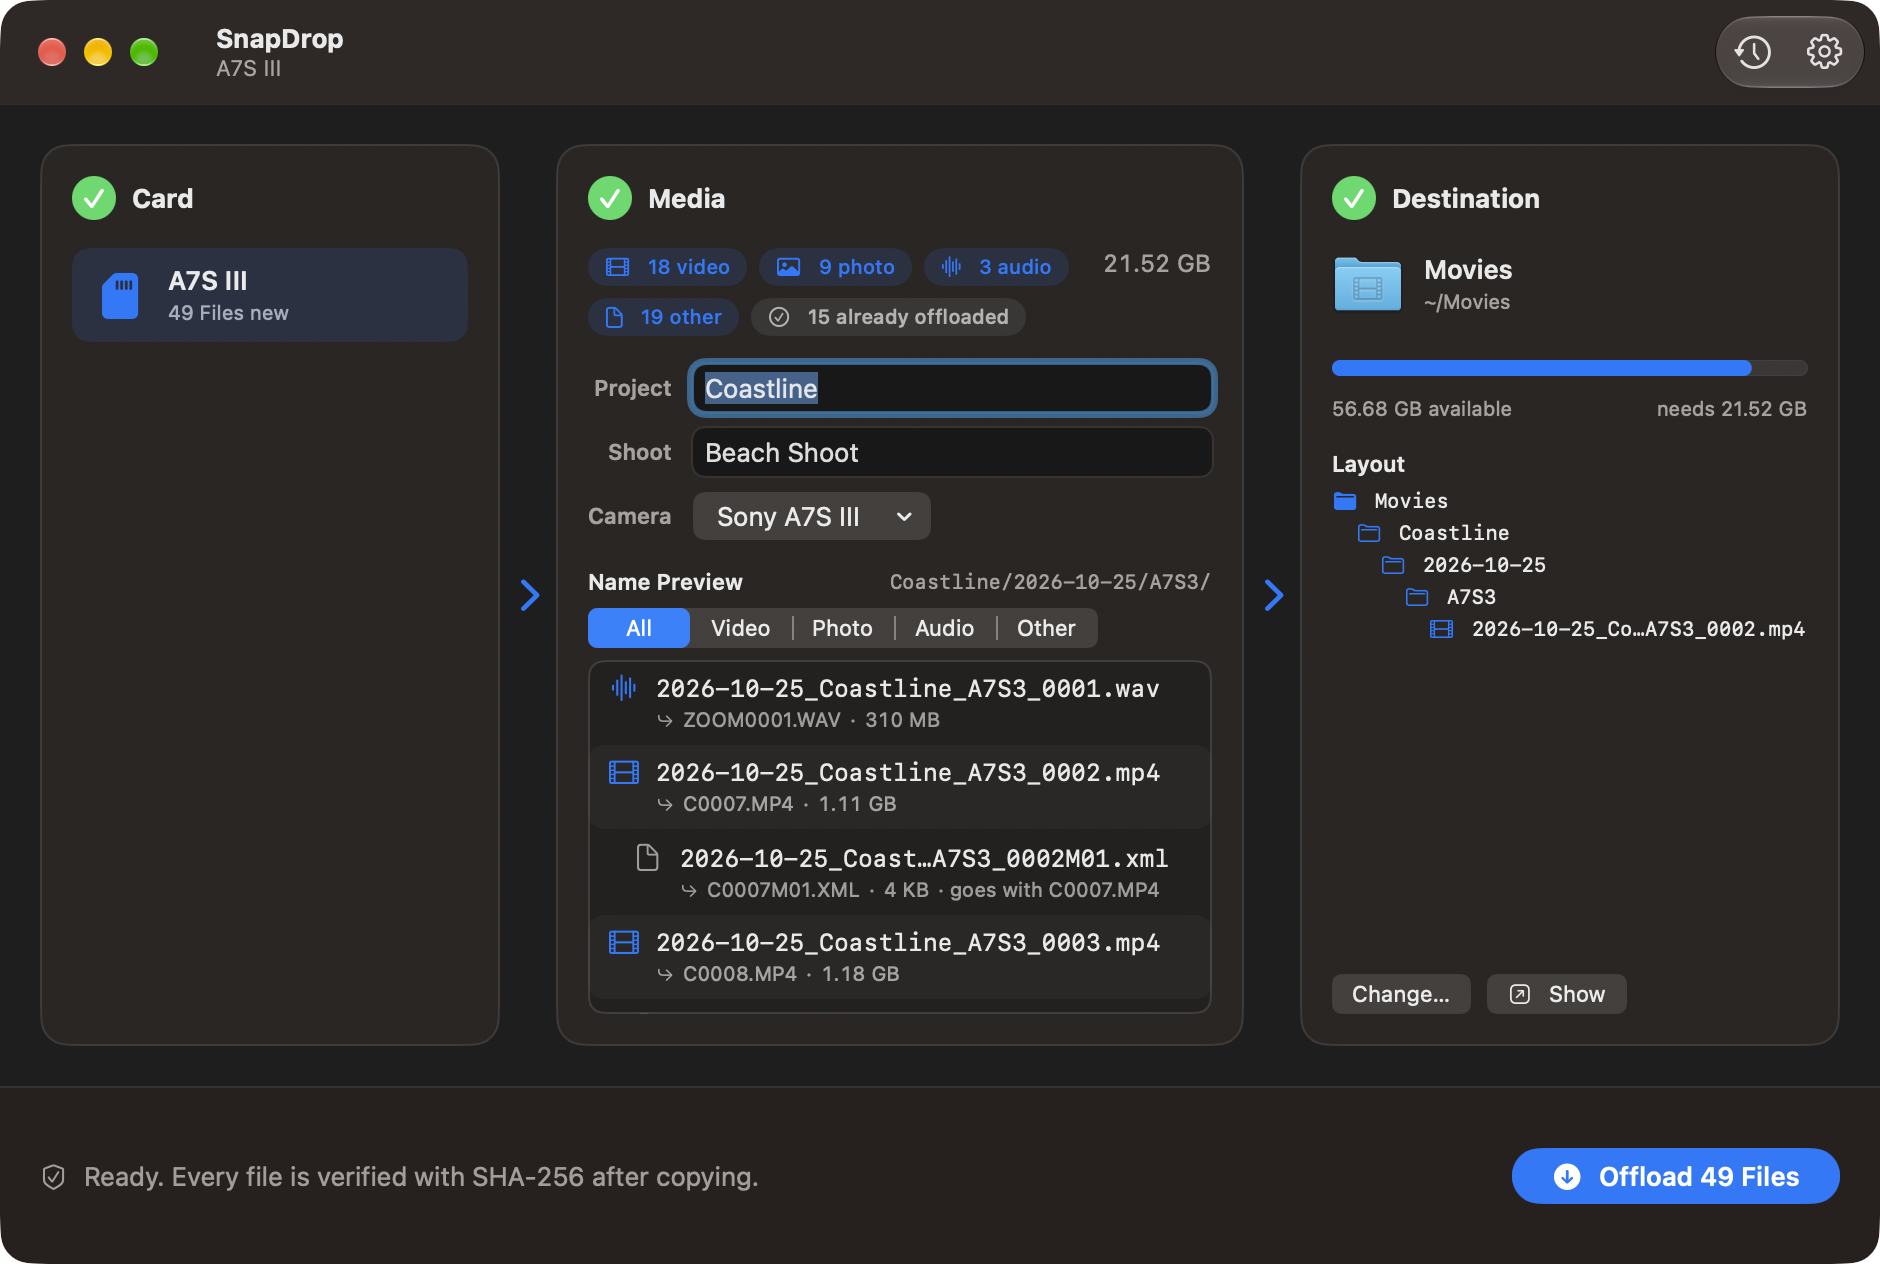
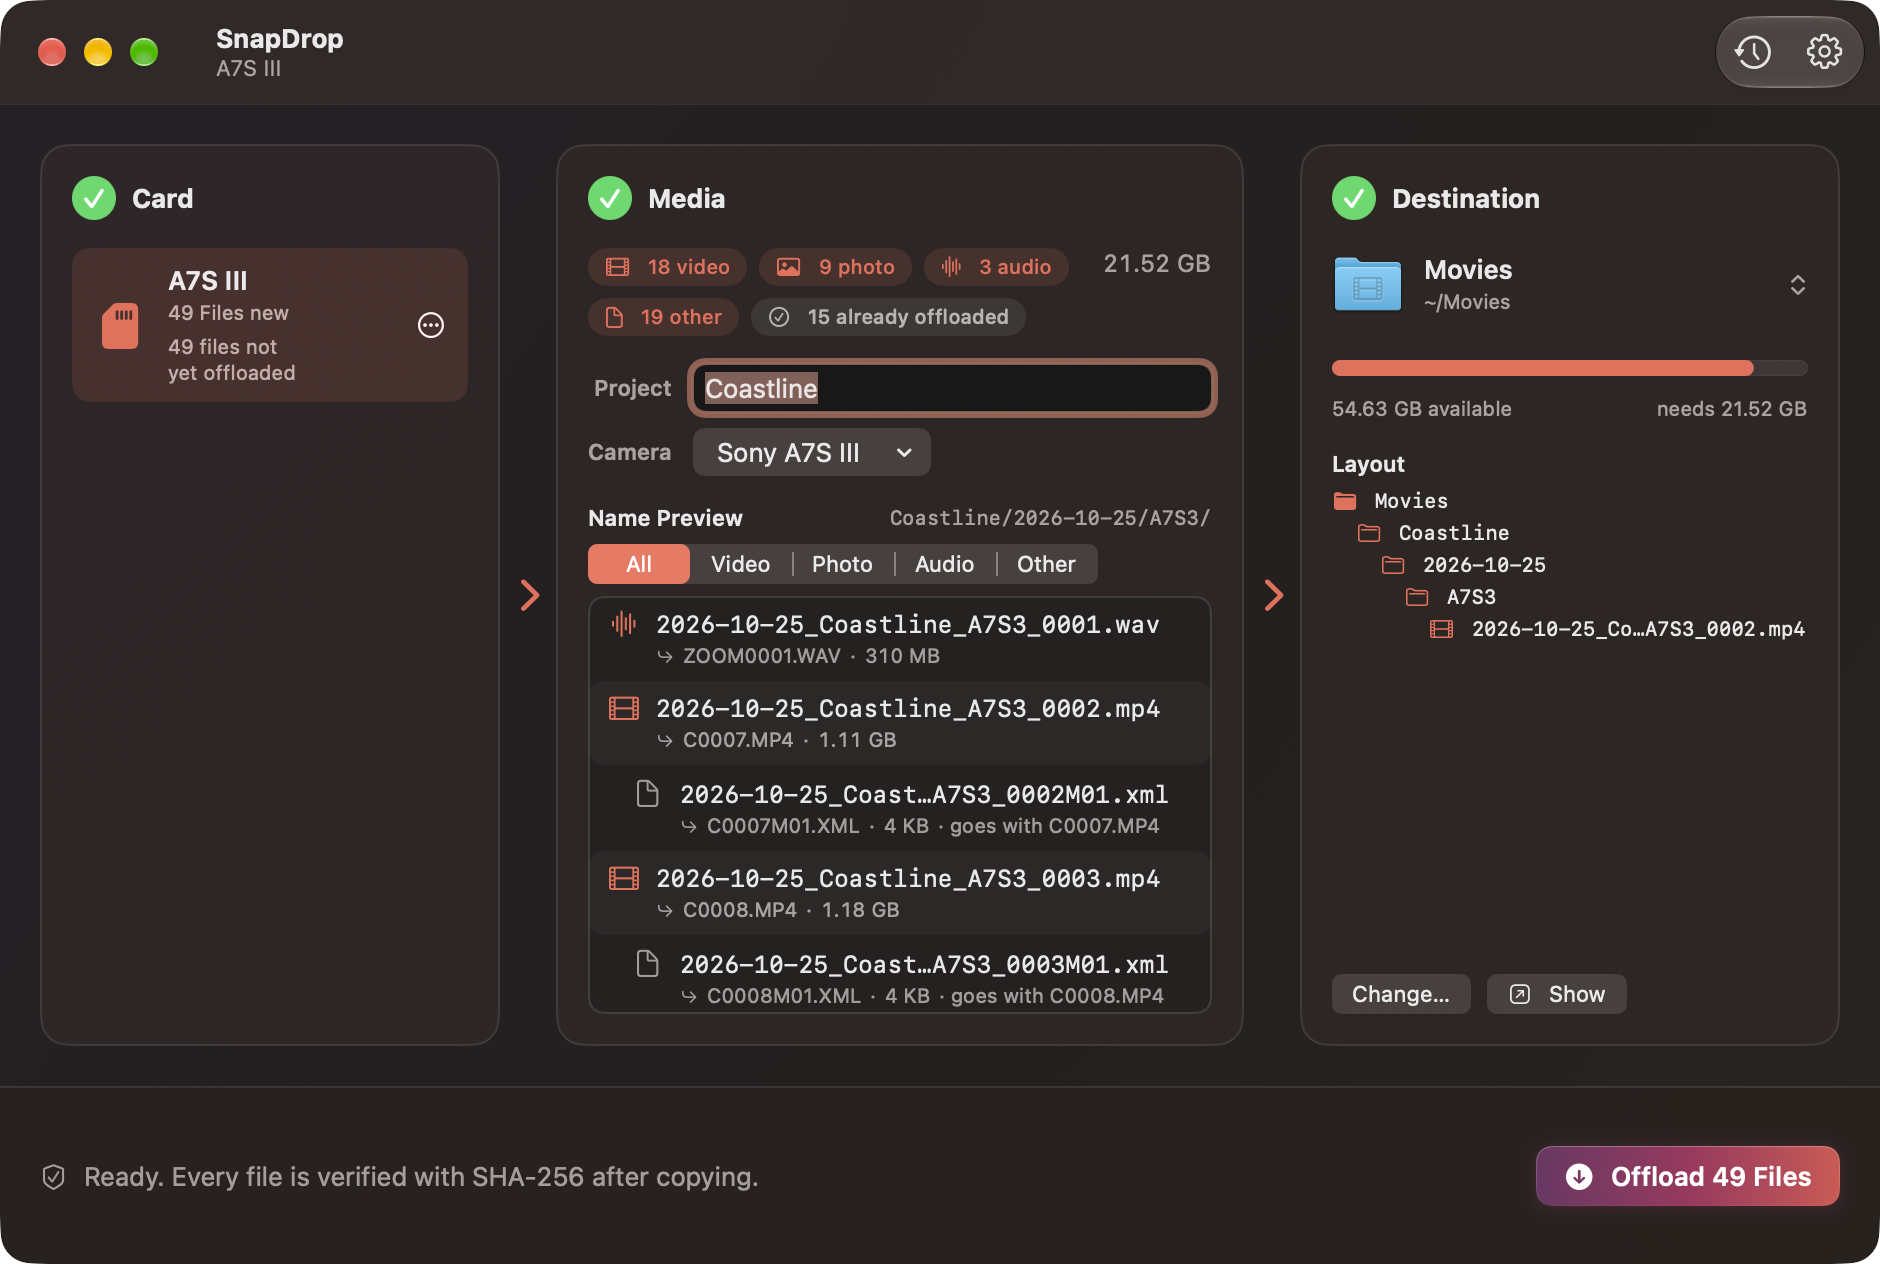
Update README and screenshots for project naming, formatting, favorites and the new theme

diff --git a/README.md b/README.md
@@ -14,8 +14,9 @@ and sidecar files — safely, verified, and named the way you want.
    System junk is never copied.
 3. **Names files from a template** you set in Settings → Naming, e.g.
    `{project}/{date}/{camera}` + `{date}_{project}_{camera}_{seq}`. You fill in the
-   project, shoot and camera in the main window; a live preview shows exactly what every
-   file will be called before anything is copied, and the copy uses exactly those names.
+   project (the shoot or job name, e.g. "Beach Shoot") and camera in the main window; a
+   live preview shows exactly what every file will be called before anything is copied,
+   and the copy uses exactly those names.
 4. **Copies only new files**, with the default layout:
 
    ```
@@ -40,7 +41,8 @@ and sidecar files — safely, verified, and named the way you want.
    again only copies files that are new. A file is identified by the card's volume UUID
    (or name) + its path on the card + size + modification time.
 
-SnapDrop **never changes or deletes anything on the card.**
+SnapDrop **never changes or deletes anything on the card** — unless you explicitly ask it
+to [format a card](#formatting-a-card) whose files have all been copied and verified.
 
 ## The window
 
@@ -48,30 +50,88 @@ The main window reads left to right, like a funnel:
 
 **① Card → ② Media → ③ Destination**, with the offload bar along the bottom.
 
-- **Card** — the inserted cards. Pick one if more than one is mounted.
+- **Card** — the inserted cards. Pick one if more than one is mounted. A card whose files
+  are all safely offloaded gets a green **Ready to format** badge; the **…** button (or a
+  right-click) has **Format Card…** and **Eject Card**.
 - **Media** — chips like *18 video · 9 photo · 3 audio · 19 other* and how many files
-  were already offloaded; the **Project**, **Shoot** and **Camera** fields (only the ones
-  your template uses are required); and the live name preview, with an
+  were already offloaded; the **Project** and **Camera** fields (only the ones your
+  template uses are required); and the live name preview, with an
   *All / Video / Photo / Audio / Other* filter. Sidecars are shown indented under their clip.
-- **Destination** — the folder, its free space, and the folder layout files will land in.
+  A card with no media on it says *Card Is Empty*.
+- **Destination** — the folder and its free space. Click the folder to switch between
+  your [favorite destinations](#favorite-destinations). Once a card is scanned it also
+  shows how much space the offload needs and the folder layout files will land in.
 - **Offload bar** — the big **Offload N Files** button. When it's disabled it tells you
   why ("Enter a project name", "Choose a camera", "Not enough space…"). While copying it
   shows the current file, *X of N*, bytes copied, time left and a *Verifying* state, plus
   **Cancel**; the preview highlights the file being copied and ticks off each verified
-  one. When it's done: **Show in Finder**, **Eject Card** and **Done**, and a "Glass"
-  sound plays if everything copied and verified.
+  one. When it's done: **Show in Finder**, **Format Card…** (when the card is ready to
+  format), **Eject Card** and **Done**, and a "Glass" sound plays if everything copied
+  and verified.
 
 When you insert a card SnapDrop fills in the funnel and brings its window to the front —
 no pop-up sheet. The clock button in the toolbar shows **Recent Offloads**.
 Animations follow System Settings → Accessibility → Display → **Reduce motion**.
 
+The colours come from the Comet A app icon — plum, magenta, coral and a warm orange — as a
+very soft wash behind the window, the gradient **Offload** button, the progress bar, the
+glowing border of the step that needs you, the dots flowing between steps while copying
+and the glow when an offload completes. With **Increase contrast** or **Reduce
+transparency** turned on, SnapDrop uses solid colours instead of gradients. The palette
+lives in one place, `Theme.swift`; the app's accent colour (`AccentColor` in the asset
+catalog) is magenta in Light Mode and coral in Dark Mode.
+
 | Ready | Copying | Finished (Dark Mode) |
 | --- | --- | --- |
 | ![](Design/screenshots/ready-light.png) | ![](Design/screenshots/running-light.png) | ![](Design/screenshots/finished-dark.png) |
 
+| No card | Ready (Dark Mode) |
+| --- | --- |
+| ![](Design/screenshots/empty-light.png) | ![](Design/screenshots/ready-dark.png) |
+
+## Formatting a card
+
+When every file on a card has been copied and verified, the card shows a green
+**Ready to format** badge (otherwise it says how many files aren't offloaded yet).
+"Offloaded" means the ledger has the file *and* its copy is still in the destination with
+the right size — if you've moved or deleted copies, the card isn't ready.
+
+**Format Card…** (in the card's **…** menu, its right-click menu, or after an offload)
+asks first, with **Cancel** as the default button:
+
+![The Format confirmation](Design/screenshots/format-confirm.png)
+
+Formatting keeps the card's file system (exFAT, FAT32 or FAT16) and its name, using
+`diskutil eraseVolume`. Before erasing, SnapDrop checks again that the card is still ready
+and refuses unless the volume:
+
+- is the card it scanned, mounted under `/Volumes`, and is a volume on a disk (not a whole
+  disk);
+- is removable media (an SD card in the built-in reader or a card reader) — never the
+  startup disk or another drive that's part of your Mac;
+- isn't the drive your destination folder is on.
+
+If *Eject card after offload* is on, the card is ejected after formatting. Tip: formatting
+in the camera is usually best, because it sets the card up exactly the way the camera
+expects.
+
+## Favorite destinations
+
+Keep a list of places you offload to — "Movies", "Footage SSD", "Client Archive" — and
+switch with one click: click the folder in the **Destination** panel to see your favorites
+with their free space, plus **Choose Other Folder…** and **Edit Favorites…**. A favorite on
+a drive that isn't plugged in shows *Not connected* and can't be picked until it's back.
+
+Manage them in **Settings → Destinations**: add (+), remove (−), rename (click the name
+and type), **Change Folder…**, drag to reorder and **Make Default**. SnapDrop starts with the
+favorite you used last (or the default). Your existing destination becomes the first
+favorite the first time you open this version. The list is saved in
+`~/Library/Application Support/SnapDrop/destinations.json`, with a bookmark for each
+folder so a folder that's renamed or moved is still found.
+
 ## Settings (⌘,)
 
-**General** — destination folder; which [file types](#file-types) to offload (all on by
+**General** — the current destination folder; which [file types](#file-types) to offload (all on by
 default); *Eject card after offload* (off by default, and only when every file copied and
 verified); *Play a sound when an offload finishes* (on by default).
 
@@ -79,12 +139,11 @@ verified); *Play a sound when an offload finishes* (on by default).
 Click a token chip to insert it where you were typing. Mistakes (an unclosed `{`, an
 unknown token, `{seq}` twice, a name starting with `.`) are explained right under the field
 and the Offload button stays off until they're fixed. **Reset to Default** brings back
-`{date}/{shoot}` + `{date}_{shoot}_{seq}`.
+`{date}/{project}` + `{date}_{project}_{seq}`.
 
 | Token | Becomes |
 | --- | --- |
-| `{project}` | Project name from the main window (recent projects are one click away) |
-| `{shoot}` | Shoot name ("Beach Shoot" → `BeachShoot`) |
+| `{project}` | Project name from the main window ("Beach Shoot" → `BeachShoot`; recent projects are one click away) |
 | `{camera}` | The chosen camera's short code, or its name if it has no code |
 | `{date}` | Capture date, `2026-10-25` |
 | `{year}` `{month}` `{day}` | `2026`, `10`, `25` |
@@ -95,9 +154,12 @@ and the Offload button stays off until they're fixed. **Reset to Default** bring
 | `{seq}` | Sequence number, `0001`; `{seq:3}` gives `001` |
 | `{ext}` | File extension, `mp4` (the real extension is always added at the end) |
 
-Use `/` in the folder template for subfolders. Presets: *Date / Shoot* (default),
+Use `/` in the folder template for subfolders. Presets: *Date / Project* (default),
 *Project / Date / Camera*, *Project / Type / Date*, *Year / Month / Day*,
-*Date / Shoot, Original Names*, and *Flat*. Without `{seq}` or `{original}`, files that
+*Date / Project, Original Names*, and *Flat*. Older versions had a separate **Shoot**
+field and `{shoot}` token; they're now one. `{shoot}` still works as another name for
+`{project}`, and saved templates are updated automatically (`{date}/{shoot}` becomes
+`{date}/{project}`, and a doubled `{project}_{project}` collapses to one). Without `{seq}` or `{original}`, files that
 would end up with the same name get `_2`, `_3`… instead of overwriting.
 
 **Cameras** — your list of cameras, each with a name ("Sony FX3") and an optional short
@@ -105,9 +167,11 @@ code ("A") used by `{camera}`. Add, rename, reorder (drag) and delete. In the ma
 pick one from the **Camera** menu; SnapDrop remembers which camera you used with each card
 and picks it again next time. *Edit Cameras…* in that menu jumps straight here.
 
-| Naming | Cameras |
-| --- | --- |
-| ![](Design/screenshots/settings-naming.png) | ![](Design/screenshots/settings-cameras.png) |
+**Destinations** — your [favorite destinations](#favorite-destinations).
+
+| Naming | Cameras | Destinations |
+| --- | --- | --- |
+| ![](Design/screenshots/settings-naming.png) | ![](Design/screenshots/settings-cameras.png) | ![](Design/screenshots/settings-destinations.png) |
 
 ## File types
 
@@ -134,7 +198,7 @@ The type comes from the file extension (upper or lower case).
 2. Press **⌘R**.
 3. First run: click **Choose Folder…** in the *Destination* panel (or in Settings, ⌘,) and
    pick the folder for your footage. It's remembered from then on.
-4. Insert a card, fill in the shoot name (and project/camera if your template uses them),
+4. Insert a card, fill in the project name (and camera if your template uses it),
    and click **Offload N Files**.
 
 The project builds without an Apple developer account ("Sign to Run Locally" /
@@ -175,7 +239,10 @@ open -n build/DerivedData/Build/Products/Debug/SnapDrop.app --args \
 ```
 
 States: `empty`, `ready`, `running`, `finished`. Appearance: `light` or `dark`.
-Add `-SnapDropDemoSettingsTab general|naming|cameras` to open Settings on that tab.
+Add `-SnapDropDemoSettingsTab general|destinations|naming|cameras` to open Settings on that
+tab, `-SnapDropDemoShowFormatAlert YES` to show the Format confirmation, or
+`-SnapDropDemoPlainTheme YES` to see the solid colours used with Increase contrast.
+Formatting can never run in demo mode.
 The sample card has clips with Sony XML sidecars, RAW photos, WAVs and a few cameras.
 Every view also has `#Preview`s you can open in Xcode's canvas.
 
@@ -184,28 +251,33 @@ Every view also has `#Preview`s you can open in Xcode's canvas.
 | File | What's in it |
 | --- | --- |
 | `SnapDropApp.swift` | App entry point: main window and Settings scene |
-| `AppModel.swift` | Ties settings, cameras, card watcher, ledger and the current offload together; eject, sound |
+| `AppModel.swift` | Ties settings, cameras, destinations, card watcher, ledger and the current offload together; eject, format, sound |
+| `Theme.swift` | The Comet A colours, window wash and gradient button style, with solid fallbacks |
 | `ContentView.swift` | Main window: the Card → Media → Destination funnel and toolbar |
 | `FunnelComponents.swift` | Shared pieces: stage panel, step badge, arrows, count pills |
 | `Motion.swift` | Animated pieces: arrow stream, shimmering progress bar, completion burst, row reveal |
-| `CardStageView.swift` | ① Card panel |
-| `ClipsStageView.swift` | ② Media panel: counts, project/shoot/camera, filterable name preview |
-| `DestinationStageView.swift` | ③ Destination panel: folder, free space, layout |
+| `CardStageView.swift` | ① Card panel, Ready to format badge, card actions menu |
+| `ClipsStageView.swift` | ② Media panel: counts, project/camera, filterable name preview |
+| `DestinationStageView.swift` | ③ Destination panel: favorites picker, free space, layout |
+| `FormatViews.swift` | Format confirmation, Ready to format badge, format status and buttons |
 | `OffloadBar.swift` | Bottom bar: Offload button, progress/ETA/Cancel, completion actions |
 | `RecentOffloadsView.swift` | Recent Offloads popover |
 | `SettingsView.swift` | Settings window (⌘,): tabs and the General tab |
 | `NamingSettingsView.swift` | Naming tab: template editors, presets, token chips, example |
 | `CamerasSettingsView.swift` | Cameras tab |
+| `DestinationsSettingsView.swift` | Destinations tab |
 | `NamingTemplate.swift` | Template tokens, parsing/validation, presets, rendering |
 | `OffloadPlanner.swift` | Turns files + templates into final paths; sequence numbers; sidecar matching |
 | `MediaCategory.swift` | Video / Photo / Audio / Other by extension |
 | `CameraStore.swift` | The camera list and per-card camera memory (`cameras.json`) |
+| `DestinationStore.swift` | Favorite destinations, default / last used, connected or not (`destinations.json`) |
+| `CardFormatter.swift` | Ready-to-format check, the safety checks, and `diskutil eraseVolume` |
 | `FlowLogic.swift` | Pure logic for the UI: "why is Offload disabled", ETA and byte text, success feedback |
 | `DemoData.swift` | Sample data for previews and demo mode (Debug only) |
 | `OffloadSession.swift` | State for one card's offload; runs the copy in the background |
 | `VolumeWatcher.swift` | Detects cards being inserted/removed |
 | `ClipScanner.swift` | Finds media on a card, skipping system junk |
-| `Renamer.swift` | Shoot-name cleanup and date formatting |
+| `Renamer.swift` | Project-name cleanup and date formatting |
 | `Copier.swift` | Copy + SHA-256 verify of one file, and the whole-card offload loop |
 | `Ledger.swift` | The JSON record of everything offloaded |
 | `Settings.swift` | Preferences: destination, templates, file types, eject, sound, recent projects |
@@ -214,7 +286,7 @@ Every view also has `#Preview`s you can open in Xcode's canvas.
 | `Design/icon-1024.png` | Master app icon (Comet A, 1024×1024) |
 | `Design/icon-legacy-blue.png`, `.svg` | The previous blue icon, kept for reference |
 | `Design/screenshots/` | Screenshots of the app (taken from demo mode) |
-| `SnapDropTests/` | Unit tests: templates, planner, sidecars, file types, junk skipping, cameras, ledger, copy/verify, end-to-end fake cards |
+| `SnapDropTests/` | Unit tests: templates, planner, sidecars, file types, junk skipping, cameras, ledger, copy/verify, end-to-end fake cards, format readiness and safety checks (with a fake `diskutil`), favorite destinations, theme colours |
 
 The project uses Xcode's folder-synced groups: any `.swift` file you add to the
 `SnapDrop/` folder is automatically part of the app. No third-party dependencies.
